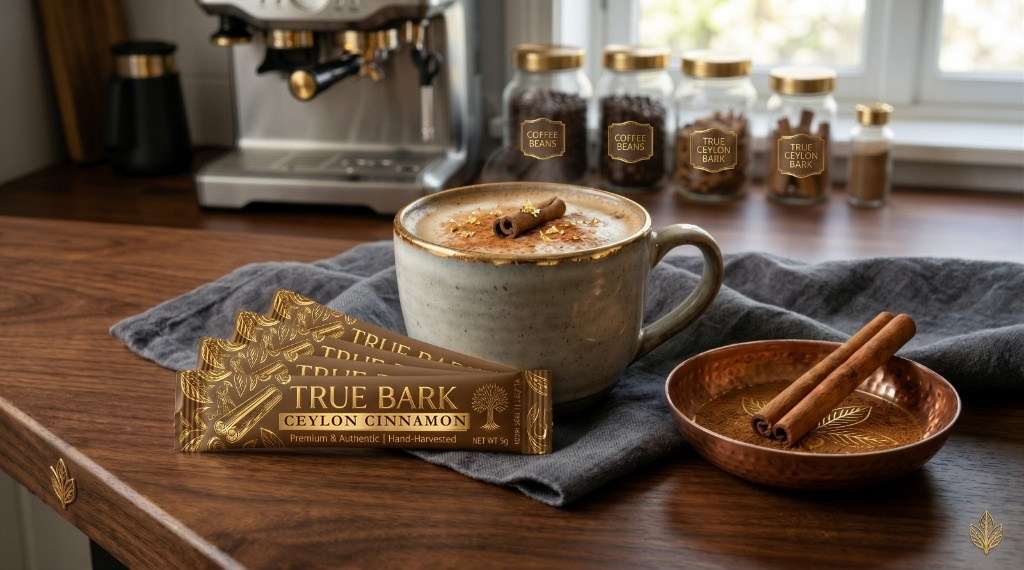
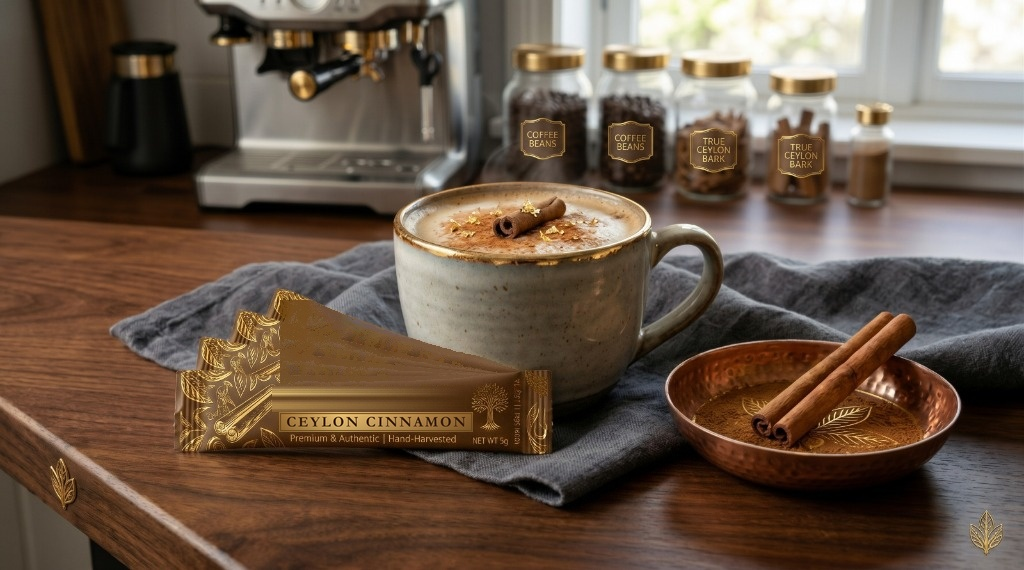
Remove TRUE BARK branding from sachet sticks and update product title to Ceylon Cinnamon

Changed region(s): [[0.25, 0.507, 0.4688, 0.7754], [0.5, 0.6561, 0.5312, 0.686]]

diff --git a/index.html b/index.html
@@ -248,7 +248,7 @@
           <div class="review-stars">&#9733;&#9733;&#9733;&#9733;&#9733;</div>
           <h4 class="review-heading">"Game changer for my morning latte."</h4>
           <p class="review-quote">
-            "The True Bark Ceylon Cinnamon sticks are genius. I keep a box by my espresso machine. One stick dusted over the microfoam gives this incredible sweet aroma without any bitter throat catch."
+            "The Ceylon Cinnamon sticks are genius. I keep a box by my espresso machine. One stick dusted over the microfoam gives this incredible sweet aroma without any bitter throat catch."
           </p>
           <div class="reviewer-meta">
             <span class="reviewer-name">Marcus V.</span>

diff --git a/app.js b/app.js
@@ -9,7 +9,7 @@
 const PRODUCTS = [
   {
     id: "true-bark-sugar-mix",
-    name: "True Bark Ceylon Cinnamon",
+    name: "Ceylon Cinnamon",
     subtitle: "5g Single-Serve Barista Sticks | Premium & Authentic Hand-Harvested",
     category: "sticks",
     categoryName: "Single-Serve Sticks",

diff --git a/README.md b/README.md
@@ -8,7 +8,7 @@ A luxury e-commerce storefront crafted for **True Bark**, an artisanal spice and
 
 ## 🌟 The Product Line
 
-1. **True Bark Ceylon Cinnamon (5g Sticks)**
+1. **Ceylon Cinnamon (5g Sticks)**
    - Single-serve golden packets designed to dissolve into espresso crema, lattes, cappuccinos, oatmeal, and toast.
    - Preserves volatile essential oils with an aroma-locked foil barrier.
 2. **True Bark Ceylon Cinnamon Powder — Keepsake Metal Tins**
